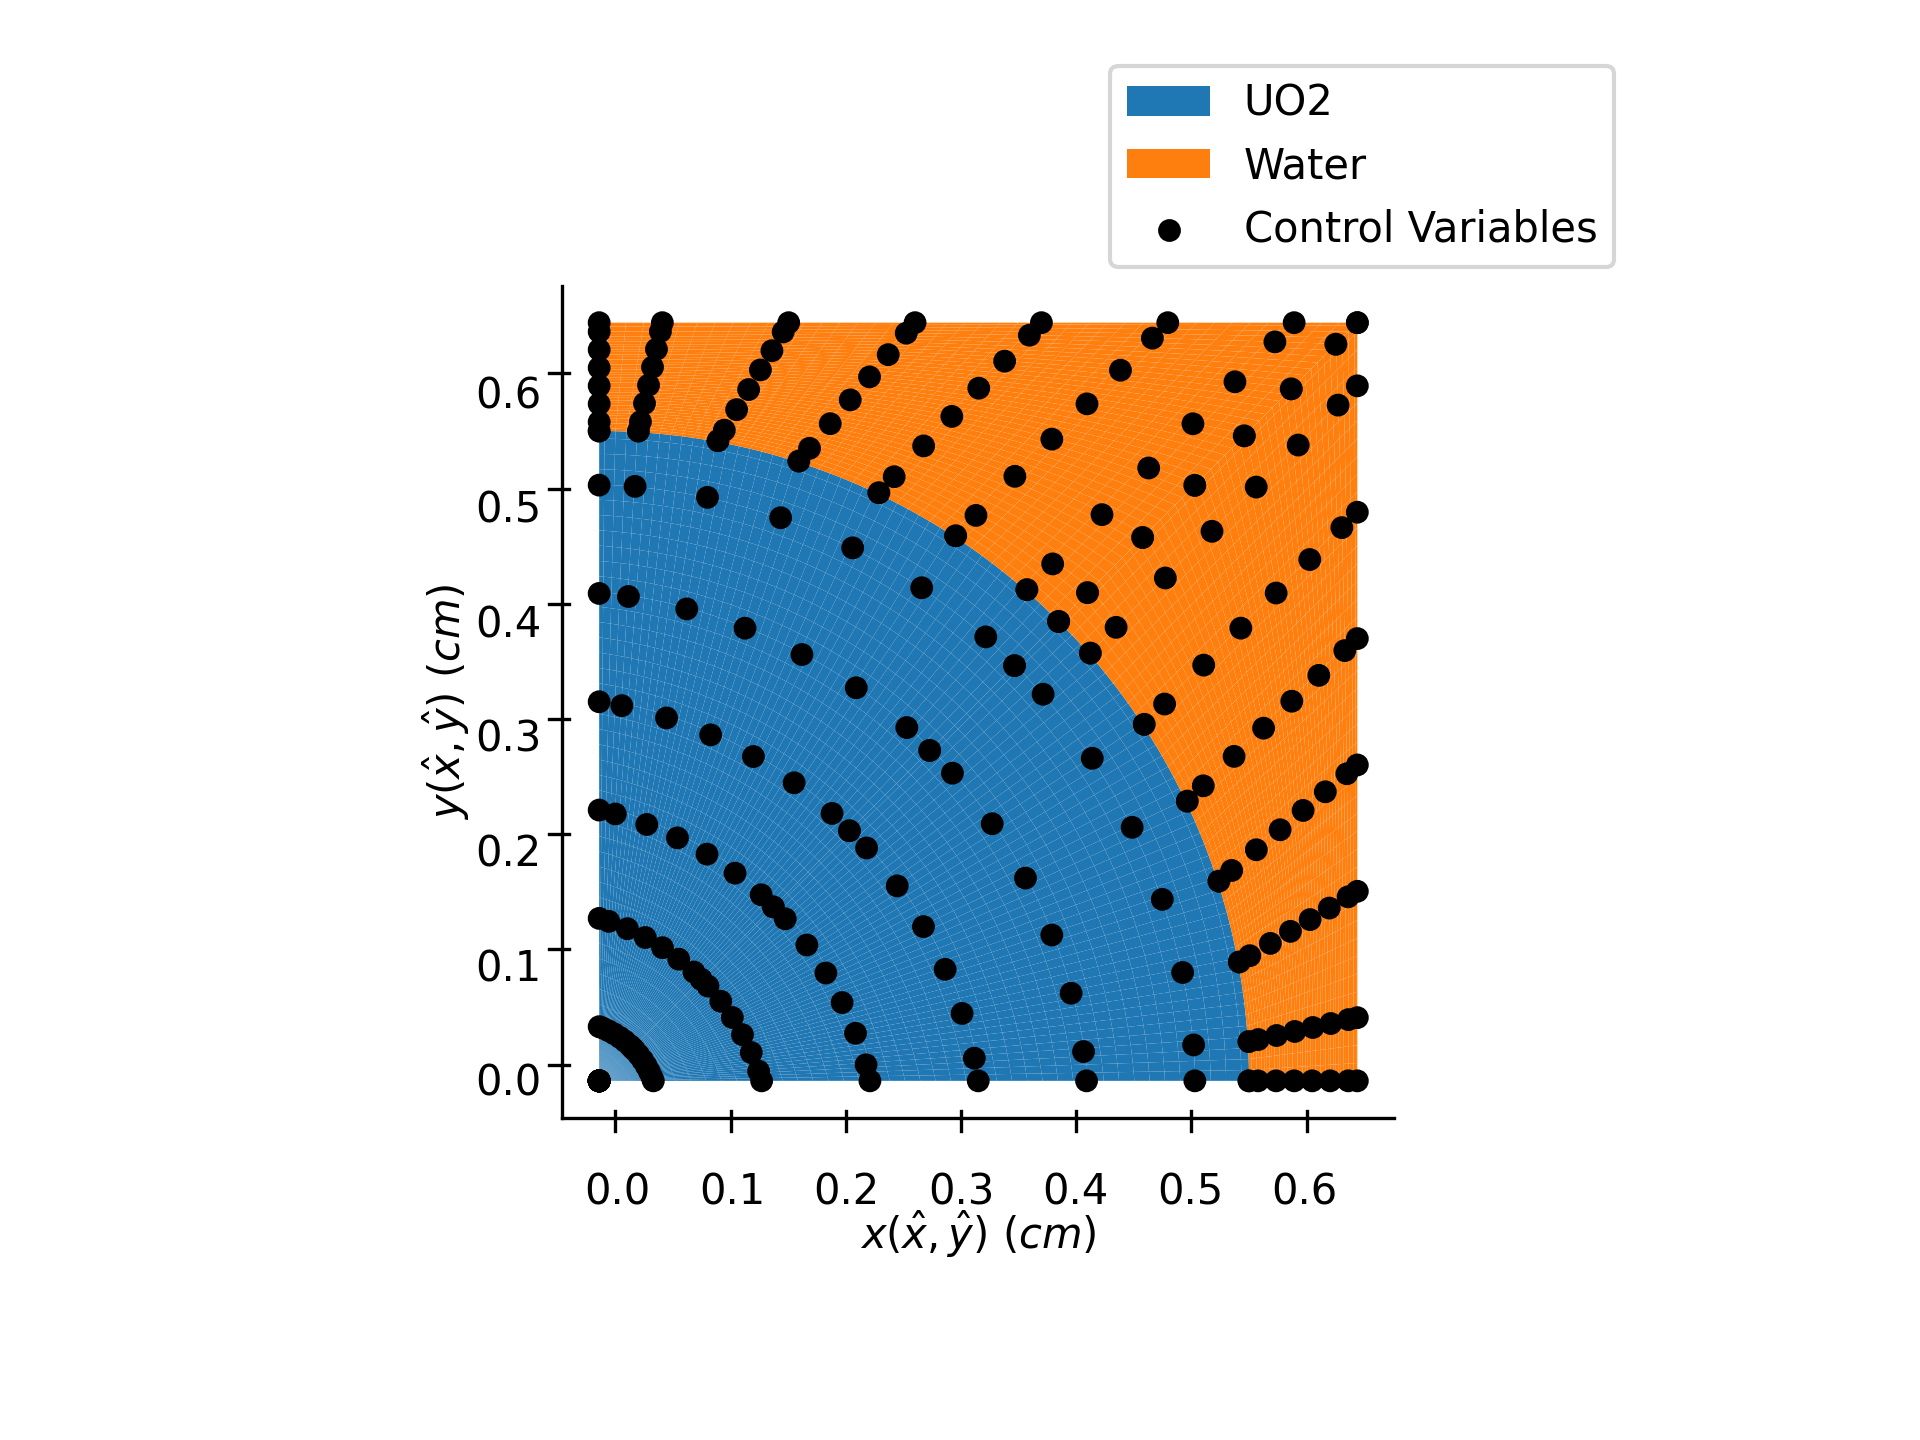
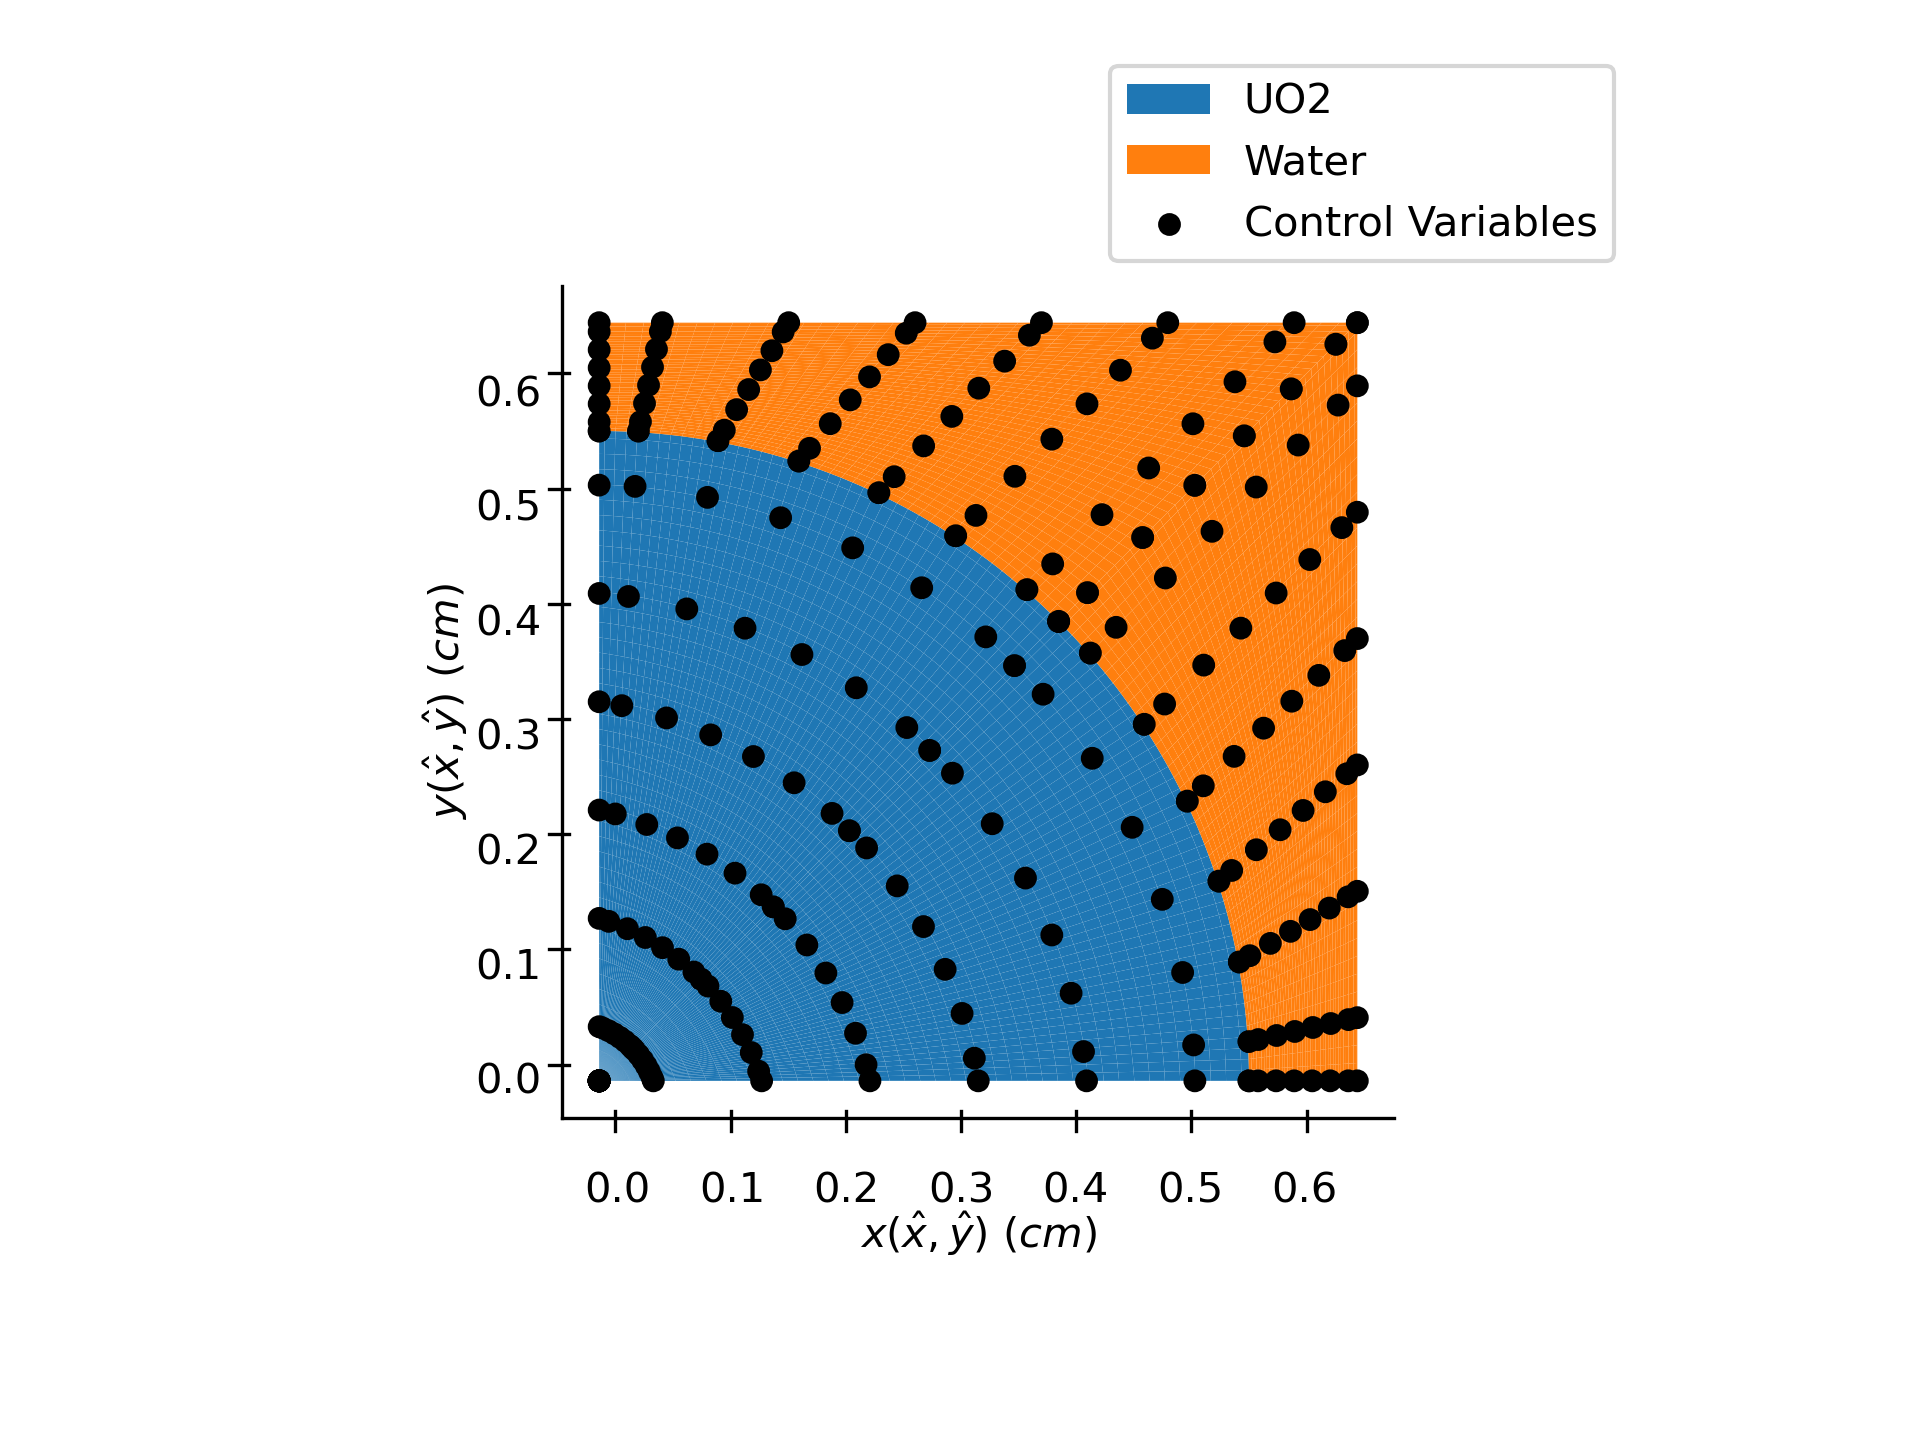
Initialization of fixed source infrastructure

diff --git a/ttnte/iga/mesh.py b/ttnte/iga/mesh.py
@@ -1395,6 +1395,28 @@ class IGAMesh(object):
             patch.ctrlpts = new_ctrlpts
             self.patches[p] = patch
 
+
+    def set_source(self, fixed_sources: np.ndarray):
+        """
+        Flag which patches are fixed sources.
+
+        Paramaters
+        ----------
+        fixed_sources: np.ndarray
+            List of patches that will be assigned a fixed source. The default is
+            no patches being assigned a fixed source. If no patches are to be fixed 
+            sources input an empty vector.
+        stength: float = 1
+            Strength of the fixed source being used. It is assumed to be 1.
+        
+        """
+        #iterate through fixed_sources list of patches
+        for p in fixed_sources:
+            for pt in self.patches[p].ctrlpts:
+                pt[2] = 1
+        
+
+
     @property
     def num_patches(self):
         return len(self.patches)

diff --git a/ttnte/assemblers/matrix_assembler.py b/ttnte/assemblers/matrix_assembler.py
@@ -21,6 +21,7 @@ class MatrixAssembler(object):
         xs_server: Server,
         num_ordinates: int,
         num_points: Optional[Tuple[int]] = None,
+        source_strength: int = 0,
     ):
         """"""
         self._mesh = mesh
@@ -32,6 +33,7 @@ class MatrixAssembler(object):
             else num_points
         )
         self._quadrants = np.array(np.meshgrid([1, -1], [1, -1])).T.reshape(-1, 2)
+        self._source_strength = source_strength
 
     # ========================================================================
     # Main build methods
@@ -152,14 +154,19 @@ class MatrixAssembler(object):
         self._append_coo_info("H", H)
         S = self._build_scatter(Intg[:, :, 0, :, :])
         self._append_coo_info("S", S)
-        F = self._build_fission(Intg[:, :, 0, :, :])
-        self._append_coo_info("F", F)
+        Q= [1]## build fixed source Q
         B_in = self._build_incident_boundary()
         self._append_coo_info("B_in", B_in)
         B_out = self._build_outgoing_boundary()
         self._append_coo_info("B_out", B_out)
 
-        return H, S, F, B_in, B_out
+        
+        if self._source_strength == 0:
+            F = self._build_fission(Intg[:, :, 0, :, :])
+            self._append_coo_info("F", F)
+            return H, S, F, B_in, B_out#, Q
+        else:
+            return H, S, Q, B_in, B_out#, Q
 
     def _build_loss(self, Intg_int, Intg_str):
         """"""